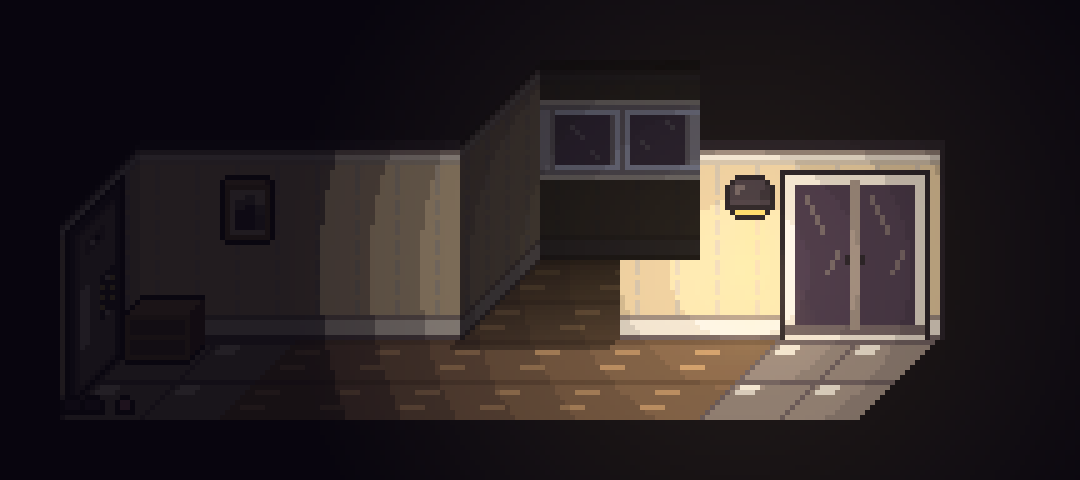
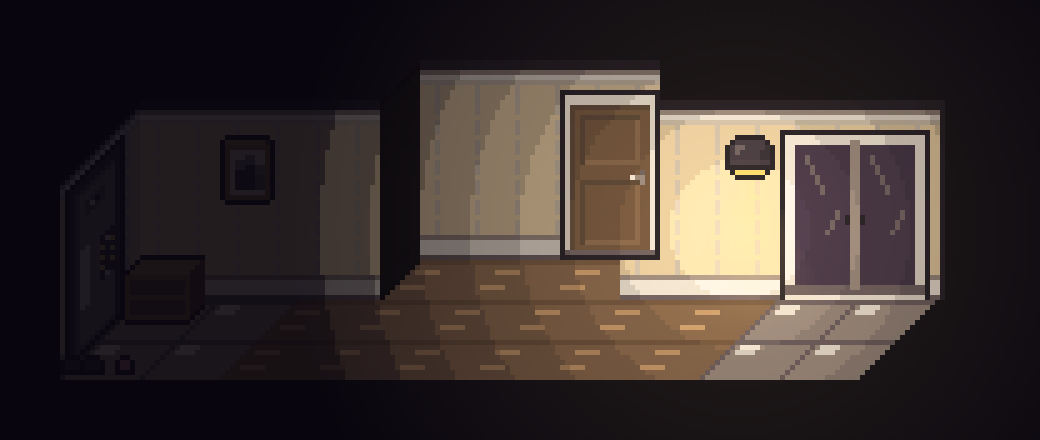
Corridor per sketch: recess with hidden (black) side wall, door at right end of recess panel
Claude-Session: https://claude.ai/code/session_01FPZSaKiVNU2zED737yZX4w

Changed region(s): [[0.1231, 0.1477, 0.9231, 0.8864], [0.3077, 0.7977, 0.3385, 0.8273]]

diff --git a/tools/render_room.py b/tools/render_room.py
@@ -34,7 +34,7 @@ def render_room(path, scale=1):
     ncols, nrows = c1 - c0 + 1, len(floor_rows)
     W, D = ncols * T, nrows * T
     sky = int(m.get('extra', {}).get('sky_rows', '0')); wallh = WALLH + 16 * sky      # 방지대 위에 하늘 줄을 더 쌓는다
-    extra_dark = m.get('extra', {}).get('recess_dark') == '1'
+    extra = m.get('extra', {}); extra_dark = extra.get('recess_dark') == '1'
     rc = m.get('extra', {}).get('recess'); RD = T * int(m.get('extra', {}).get('recess_depth', '1')) if rc else 0                  # 뒷벽이 한 칸 안쪽으로 패인 부분(알코브): `recess: 시작열 끝열`
     ra, rb = [int(v) for v in rc.split()] if rc else (0, -1)
     CW, CH = int(PAD * 2 + W + SK * (D + RD)), int(PAD * 2 + wallh + SS * (D + RD))
@@ -98,7 +98,8 @@ def render_room(path, scale=1):
                 z = (Y0 - SS * d) - (Y + .5)
                 if not (0 <= z < wallh): continue
                 nm, ty = (names['base'], 15 - int(z)) if z < 16 else (names['mid'], 15 - int(z - 16)) if z < 32 else (names['top'], int(wallh - 1 - z))
-                r_, g_, b_, a_ = get(nm, int(d), ty); px[X, Y] = (int(r_ * (.25 if extra_dark else .72)), int(g_ * (.25 if extra_dark else .72)), int(b_ * (.28 if extra_dark else .78)), a_)
+                r_, g_, b_, a_ = get(nm, int(d), ty); fk_ = .04 if extra.get('recess_side') == 'hidden' else (.25 if extra_dark else .72)
+                px[X, Y] = (int(r_ * fk_), int(g_ * fk_), int(b_ * fk_ * 1.1), a_)
     emitters = []
     def stamp(name, left, bottom):                           # 정면 스프라이트 (왼쪽 아래 모서리 기준)
         sp = lib[name]; img.alpha_composite(sp, (int(round(left)), int(round(bottom - sp.height))))
@@ -109,7 +110,9 @@ def render_room(path, scale=1):
         for c in range(c0, c1 + 1):
             for obj in leg[rows[r_i][c]][1]:
                 inr = ra <= c - c0 <= rb; dd = D + RD if inr else D
-                nm, _, lift = obj.partition('^'); sp_ = stamp(nm, X0 + SK * dd + (c - c0) * T, Y0 - SS * dd - zb - int(lift or 0))
+                nm, _, lift = obj.partition('^'); lx = X0 + SK * dd + (c - c0) * T
+                if inr and c - c0 == rb and lib[nm].width > T: lx -= lib[nm].width - T          # 알코브 오른쪽 끝에 문을 붙인다
+                sp_ = stamp(nm, lx, Y0 - SS * dd - zb - int(lift or 0))
                 if nm == 'wall_light_kr': cone(img, X0 + SK * dd + (c - c0) * T + 10, Y0 - SS * dd - zb - int(lift or 0), 30)
     # 왼쪽 벽의 사물: 세로 선은 그대로, 깊이 방향은 SK 배로 눌리고 SS 만큼 올라가는 기울임
     for tok in extra.get('left_add', '').split():

diff --git a/tools/render_maps.py b/tools/render_maps.py
@@ -43,7 +43,7 @@ def load_map(path):
             m['tone'] = tuple(int(v) for v in line[5:].split())
         elif line.startswith('ambient:'):
             m['ambient'] = float(line[8:])
-        elif line.startswith(('view:', 'left_wall:', 'left_add:', 'sky_rows:', 'front_wall:', 'front_door:', 'front_glow:', 'recess:', 'recess_dark:', 'recess_depth:')) and section is None:
+        elif line.startswith(('view:', 'left_wall:', 'left_add:', 'sky_rows:', 'front_wall:', 'front_door:', 'front_glow:', 'recess:', 'recess_dark:', 'recess_depth:', 'recess_side:')) and section is None:
             m.setdefault('extra', {})[line.split(':')[0]] = line.split(':', 1)[1].strip()      # 사선 시점 방(render_room.py)용 추가 줄
         elif line.startswith('dream:'):
             m['dream'] = dict(p.split('=') for p in line[6:].split())
